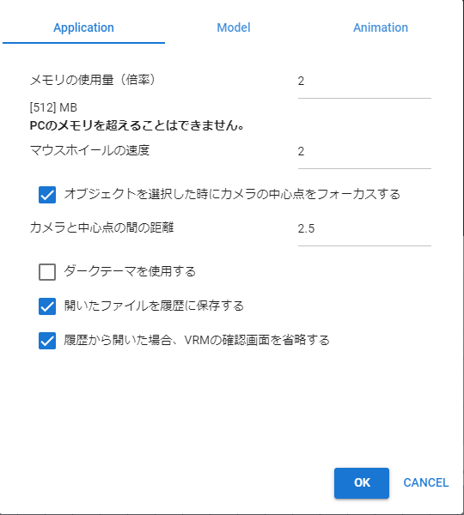
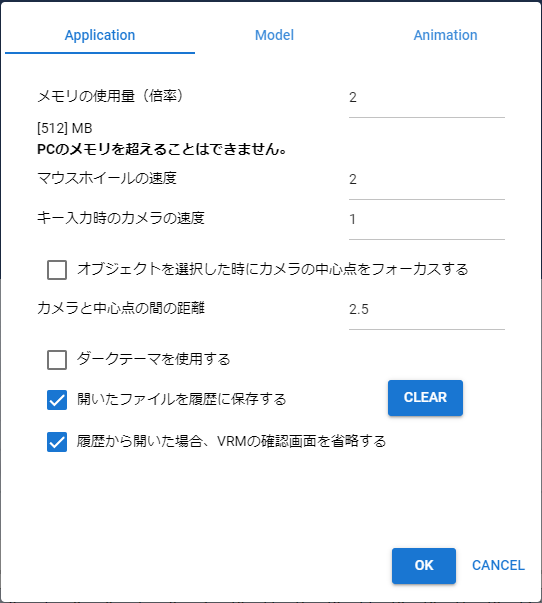
5/3夜時点

diff --git a/docs/source/man5/config.rst b/docs/source/man5/config.rst
@@ -58,18 +58,13 @@
     　アプリの見た目をダークテーマに変更します。
 
 開いたファイルを履歴に保存する
-    　一度開いたVRM、OtherObject、Image、UImageを、アプリ内のストレージに履歴として保存します。
+    　一度開いたVRM、OtherObject、Image、UImageを、アプリ内に履歴として保存します。
 
 履歴から開いた場合、VRMの確認画面を省略する
     　一度開いたVRMについては、利用条件の確認画面を表示することなく読み込ませるようにします。あとから「詳細情報」ボタンで表示することはできます。
 
-履歴にファイルの参照のみ保存する
-    | 　この設定がオフの場合、履歴に保存されるファイルは実体のコピーのため、端末内で移動・削除しても開くことが可能です。ただし端末側で変更がされた場合は最新のファイルは反映されません。
-    | 　オンの場合はファイルへの参照のみアプリ内に保存されるためストレージを圧迫しません。そして端末内でファイルが変更されてもアプリで開くと最新のファイルが反映されます。
-
-.. warning::
-    | ※この設定はChromium系のブラウザ、PC版のみ有効です。（Safari、Firefoxではオンにしても使用できません）
-    | ※履歴の保存形式が変わるため、設定のオン・オフで今までの履歴は一旦クリアされます。ご注意ください。
+Clear
+    一度開いたファイルの履歴をすべて削除します。
 
 
 |

diff --git a/docs/source/man1/install.rst b/docs/source/man1/install.rst
@@ -1,6 +1,21 @@
 ############
-アクセス方法
+導入方法
 ############
+
+違い
+===============
+
+ウェブアプリ版とPC版の違いは次のとおりです。
+
+.. csv-table::
+    
+    項目,ウェブアプリ版,PC版
+    インターネット接続,必須,不要
+    動作速度,普通,若干速い
+    安定性,エラー時に動作継続,OSによってはエラー時アプリごと落ちる可能性あり
+    キー操作,ブラウザによって干渉あり,干渉なし
+    ファイルの操作,ブラウザに大きく依存,各OS別に対応・安定
+
 
 
 ウェブアプリ版
